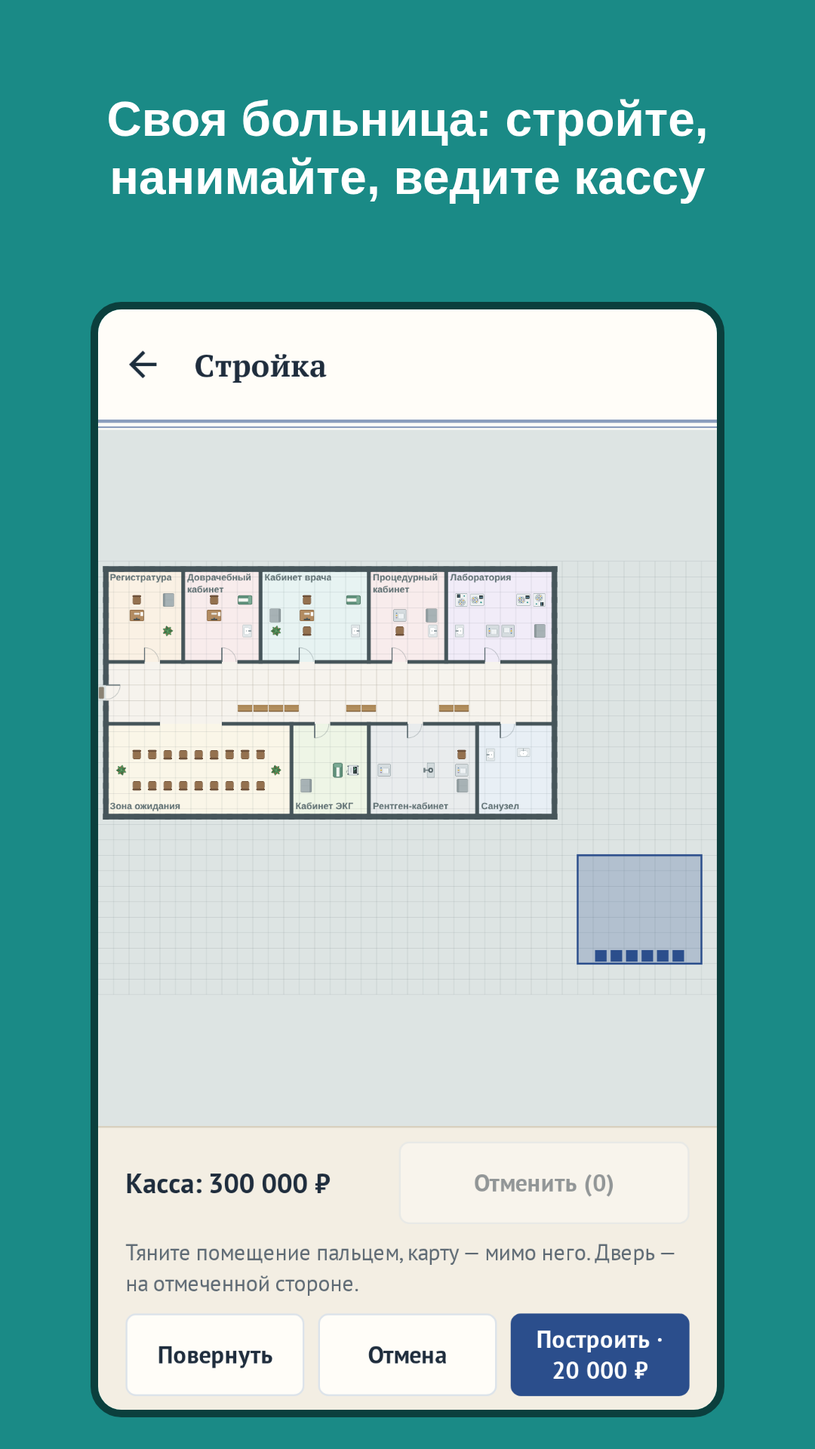
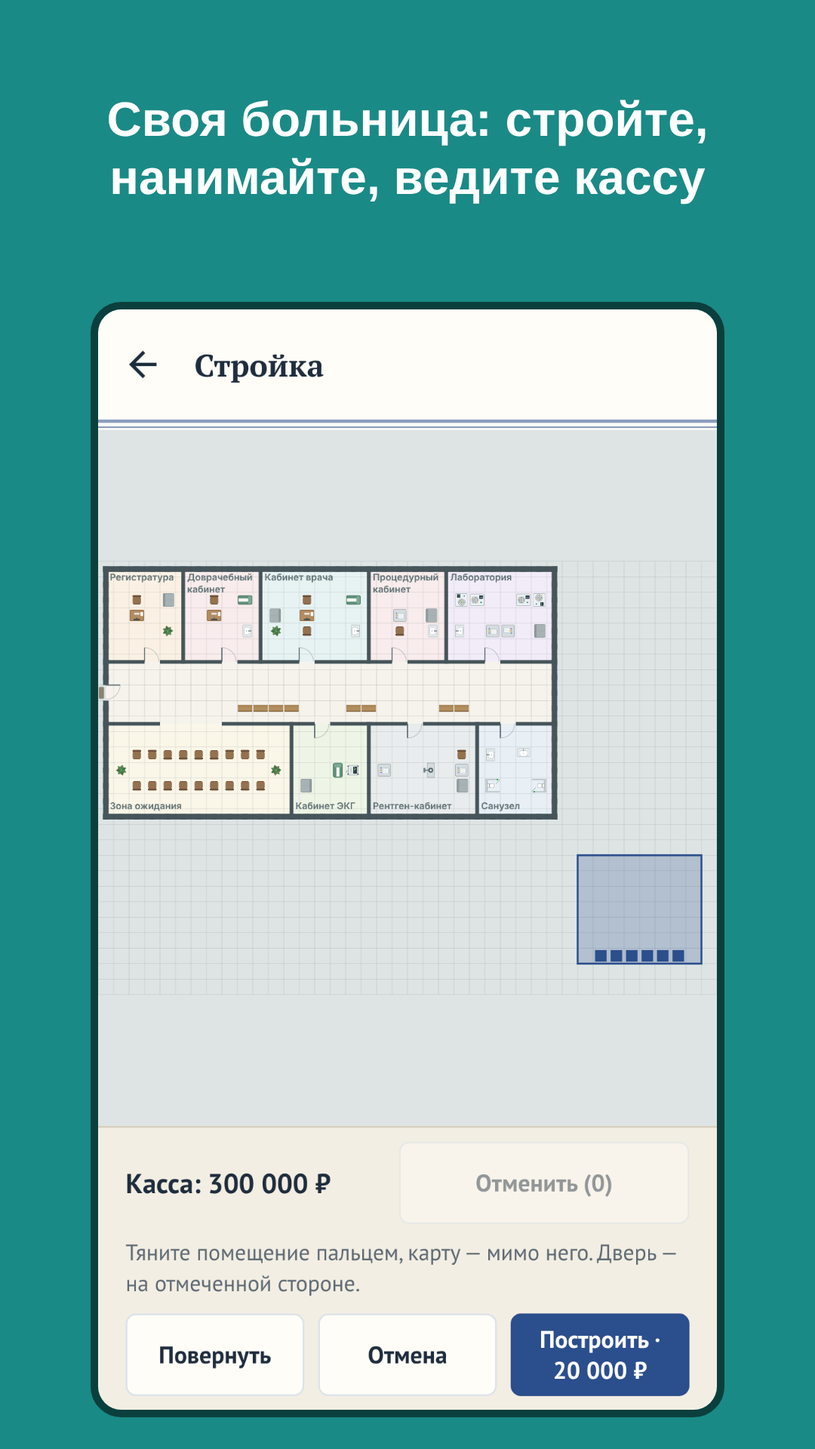
Магазин и сайт по 0.6.19: первые меры, «Где ждали», испытания и сценарии; план больницы переснят на двух снимках и обложке (часть 64)
К выпуску 1.0.0 материалы store/ должны соответствовать версии (устав, 04-process.md, «Выпуск», п. 3);
последний раз их обновляли по 0.6.9.

- Карточка RuStore (listing.ru.md): в полном описании — первые меры у скорой, «Где ждали», испытания на
  смену и сценарии на неделю. Чтобы уложиться в 4000 знаков (было 3941, стало 3991), короче перечни
  снимков, болезней сосудистого отделения, ран и правил решения — подробно они на сайте.
- Страница сайта (ru, en) и листок для прессы — то же, на сайте ещё монитор у койки и «код синий».
- Снимки и обложки пересняты на веб-сборке 0.6.19 и сверены с прежними попиксельно и глазами: другое
  содержание только у плана больницы (санузел на две кабинки, живой фон 0.6.12) — 01-emergency,
  08-build и cover-site-1920x640, их и заменил. На остальных отличается только сглаживание шрифтов
  другой версии Chromium — файлы прежние; иконки совпали до пикселя.
- store/README.md: ссылка на последний релиз вместо устаревшей «сейчас v0.6.7».

Проверки: store, site, links, status, version, guardrails — 30 из 30. Код игры и версия не менялись.

Claude-Session: https://claude.ai/code/session_01L25NsoAfKYPftpG2eaN9Vv

diff --git a/docs/journal/2026-10.md b/docs/journal/2026-10.md
@@ -103,6 +103,7 @@
 | 2026-10-25 | 0.6.17, «Главы короче» — часть 93, ответ владельца на вопрос 54 (Nefeste/anamnez#167): «делаем настройку при старте кампании - главы короче или как есть. Если выбрали настройку, то реализуем в ней идеи 2 (интересный больной) и 3 (главы короче). 4 и 5 пока отложим в список идей в roadmap, не делаем до отзывов.» ([`specs/2026-10-short-chapters.md`](../specs/2026-10-short-chapters.md)). Сделано: новая карьера — выбор «Главы»: «Как есть» или «Короче» (`meta.shortChapters`), в списке карьер — «главы короче». С «Короче» — пороги заданий из главы (`short: { count, text }` у задания): глава 1 — принять 25 пациентов вместо 40, глава 3 — ЭКГ и КТ в срок по трём больным вместо пяти (`missionsOf`); каждый день, кроме дня обучения главы, один-два пришедших сами или записанных к вам — тот же человек, но с болезнью больницы с весом записи не больше 100 (частые — 300 и 1000), жребий со сглаженными весами «Разнообразия», своя ветвь дня — остальные пришедшие те же бит в бит; интересного нанятые врачи не берут — он для вас. Подсказки, вывод и разбор — по частотам жизни. База 82. Замер интересного (3000 пришедших, все сезоны): в амбулатории частых у 62 % как в жизни, у 28 % со сглаженными весами без отбора, у интересного — ни у кого; болезней 42, в районной больнице — 75. Замер пути — карьера разумного врача на четырёх зёрнах (`district-sim --runs 0 --career-runs 4`, без настройки и с `--short`): до городской больницы — 26–43 смены вместо 43–79 (в среднем 36 вместо 62), вся карьера — 38–56 вместо 50–86; глава 3 — 11–29 вместо 26–63; глава 1 у разумного не короче — 3–4 смены, её держат лаборатория и три дня без лишнего антибиотика; глава 4 — в среднем те же 11 смен. Месяцы глав с `--short`, четыре зерна: глава 4 — основные задания на всех четырёх за 10–26 дней (без настройки на тех же зёрнах на одном «сепсис» за 30 дней не успел), прибыль — 3,54 млн ₽ против 3,59; глава 2 — задания за 9–11 дней, «операции в срок» — 89,1 % при пороге 90 % (без настройки на тех же зёрнах — 88,9 %, так и было); глава 3 — все критерии выполнены. По ходу работы: интересного сначала мог взять нанятый терапевт — тогда редкое увидел бы не игрок; теперь он для вас, как заданный пациент первой смены главы. Проверки: тесты кампании, глав 2–4, нанятых врачей, базы, выпущенных идентификаторов, золотых случаев, текстов, документов, сессии и сохранений — 212 из 212; новые — `short-chapters.test.ts`, 6 тестов; отпечаток золотых случаев пересоздан ради номера базы (сами случаи и вывод те же); сценарий в браузере — 430 из 430, ошибок в консоли нет (на сборке до правки «интересного нанятые врачи не берут»: в сценарии интересных нет — в первый день главы их не бывает); отдельный прогон на веб-сборке — 3 из 3, кадры — в спецификации; полный прогон тестов — CI. |
 | 2026-10-25 | 0.6.18, первые меры у скорой — часть 95, ответ владельца на вопрос 58 (Nefeste/anamnez#171): «Готов ждать, делаем вариант 2. При этом вариант 1 нужно будет записать в roadmap на будущие версии, когда будут более понятны отзывы и спецификации» ([`specs/2026-10-first-measures.md`](../specs/2026-10-first-measures.md); спецификация — до кода, отдельным PR). Сделано: записи базы `content/measures/` — кислород (B), инфузия (C), глюкоза (D), давящая повязка (C, новое назначение `tx.pressure_dressing` по приказу № 220н и 733_2): кто тяжёлый (признак правды, порог, роль назначения у основной болезни; сатурация и давление — и в листе передачи фельдшера), шаг 20–40 минут из ветви `worse:<пациент>:<мера>`, три ступени сдвигов монитора, на четвёртой — остановка кровообращения: код синий, бригада у койки и через 10 минут смерть, в «мягком режиме» — перевод в тяжёлом состоянии. Часы — с минуты, как положили в смотровую (`bayT`); ступени не хранятся — считаются по времени до минуты меры, поэтому журнал и сохранение те же; у больных из сохранений до 0.6.18 часов нет. Меру делает медсестра смотровой по одной, ваших минут она не стоит; данная мера держит (кислород, инфузия, глюкоза отменяют ступени, повязка — нет), в листе назначений отмечена, с временем, снять нельзя. Разбор — вовремя ли (до первой ступени), поздно — безопасность не выше B, с третьей ступени — C, умер в смотровой — D; строка разбора называет, почему мера была нужна. Умер до решения — приём закрыт без диагноза («Диагноз не поставлен»), смерть считается в летальности главы 4. На экране — лист передачи с монитором и «Первые меры» («Студенту» и «Практиканту» — что сделать сразу, по листу), карточка «В смотровой», на «Карте» — строка монитора и «Первые меры» листом; «хуже» — тревога монитора и автопауза; в итогах дня — «Первые меры вовремя», «Стало хуже», «Умерли в смотровой». Скорая привозит большую рану головы с кровопотерей (`carried`: 1,4–1,5 % привезённых), иначе повязку не нажать ни разу. Наставник в первую смену главы 2 говорит о первых мерах. Разумный врач в моделях даёт меры по известному (`measuresDue`: при одышке — когда послушал лёгкие, при Куссмауле — сразу). База 83. По ходу работы: тест итогов дня нашёл падение — у умершего до решения диагноза нет, а итоги дня искали его название; сценарий в браузере нашёл, что меры в шапке карты отнимают место у вкладок: на «Осмотреть» панель места закрывала полку «У постели», — меры переехали на «Карту», шапка — как в 0.6.17. Замечание владельца 25.10.2026 к кадру листа передачи — длинные промежутки между пульсом, давлением и дыханием: пороги того же измерения (пульс от 150, давление ниже 100) своего текста не имеют и рисовались пустыми строками; это было и до 0.6.18 — теперь пустых строк нет (тест в `ambulance.test.ts`), кадры листа пересняты. Замер `district-sim --runs 4 --career-runs 4`: умерших в смотровой нет ни в одной главе; вовремя — 61 из 65, 60 из 67 и 82 из 99 нужных мер в главах 2–4, хуже стало у 2, 5 и 14 больных; поздно — то, что видно только на приёме (рана — на осмотре, сахар — глюкометром, раствор при одышке — когда послушал лёгкие). Пороги глав выполнены, кроме «боксы окупаются своими больными» в главе 4 — 247 тыс. ₽ против 264 тыс. (0.6.17 на тех же зёрнах — 255 против 265, вопрос 27); карьера — все главы на каждом зерне за 50–86 смен, как в 0.6.17. Быстродействие (`--stall --runs 1 --days 3`): худшая команда — 161 мс, 99 % — 32 мс. Проверки: полный прогон тестов на коде до переноса мер на «Карту» — 2000 из 2000; на итоговом — тесты первых мер, кода синего, скорой, глав 2–4, карты, разбора по требованию, частей, нанятых врачей, сценариев, испытаний, кампании, сохранений, профиля, энциклопедии, базы, текстов, версии, магазина, STATUS и документов — 321 из 321; новые — `first-measures.test.ts`, 12 тестов, и один в `code-blue.test.ts`; отпечатки разбора по требованию и золотых случаев пересозданы: скорая привозит иначе; сценарий в браузере — 436 из 436, ошибок в консоли нет (до галочки у данной меры); кадры спецификации — на итоговой веб-сборке, ошибок в консоли нет. |
 | 2026-10-25 | 0.6.19, «Где ждали» — часть 96, ответ владельца на вопрос 60 (Nefeste/anamnez#175): «Да, вариант 2 делаем до 1.0 / 3 делаем после 1.0» ([`specs/2026-10-where-waited.md`](../specs/2026-10-where-waited.md)). Сделано: в итогах дня — «Где ждали» (`summary.waits`: по помещению — прошли, секунд ждали всего и дольше всех, секунд в работе), места по убыванию среднего, первое — узкое место, меньше 5 минут — строкой «Без очереди»; касание помещения на карте — «Сегодня: …», у лаборатории — пробы и «ждёт постановки». Ожидание пишется в минуту, когда обслуживание началось: регистратура и медсестра — по стойке (`at`), снимок и забор — событием `served`, врачи — при вызове, лаборатория — когда проба дошла, смотровая приёмного — когда положили на койку. Второй процедурный кабинет делит очередь (`collectRoom`: где забор начнётся раньше, с дорогой; его забор ещё идёт — туда же). Лаборант ставит партию — пробы, что дошли вместе, — 6 минут и по минуте на пробу (`economy.yaml`, `lab`), с поправкой навыка; постановка — часть времени анализа: без очереди результат прежний, ставит предыдущую — ждёт, результат позже на столько же; ждёте результата у себя — без очереди; лабораторий две — проба идёт туда, где лаборант освободится раньше. Прогноз результата знает очередь к лаборанту. Модели больниц печатают «Где ждали». По ходу работы: первый вариант считал снимок и забор в минуту назначения — «Сегодня» на карте показывало ещё не начатое; теперь — в минуту начала. Замер `district-sim --runs 4 --career-runs 4`: узкое место — врачи: ваш приём (в среднем 20–23 минуты, дольше всех — до 3,6 часа), в городской больнице — смотровая приёмного (машина ждёт койку в среднем 17 минут, дольше всех — 7 часов), эндоскопия и кабинеты нанятых врачей; лаборатория — без очереди (в городской 43 пробы в день — 3 часа работы лаборанта). Пороги глав выполнены, кроме прежнего «боксы окупаются» в главе 4 — 267 813 ₽ против 267 900 (0.6.18 — 246 913 против 263 500, вопрос 27); сроки — 100, 93,4 и 90,8 % (0.6.18 — 100, 93,4 и 91,3); умерших в смотровой нет; карьера — 50–86 смен. Быстродействие: худшая команда — 158 мс, 99 % — 33 мс. Проверки: полный прогон тестов на итоговом коде — 2013 из 2013; новые — `where-waited.test.ts`, 12 тестов; отпечатки разбора по требованию пересозданы: путь проб по больнице другой нарочно; сценарий в браузере — 438 из 438, ошибок в консоли нет; кадры спецификации — на итоговой веб-сборке, ошибок в консоли нет. По ходу проверок кадр нашёл, что строка «Сегодня» длиннее строки экрана и обрезалась многоточием, — теперь она в две строки, а «4 ч 2 мин» в итогах дня не разрывается между часами и минутами. В этом же выпуске — правка листа передачи 0.6.18 (пустые строки порогов), не успевшая в Nefeste/anamnez#186. |
+| 2026-10-30 | Материалы магазина и сайта — по 0.6.19 (часть 64, к выпуску 1.0.0; устав, `04-process.md`, «Выпуск», п. 3); версия игры прежняя. Полное описание карточки (`store/listing.ru.md`), страница сайта на двух языках и листок для прессы — о первых мерах у скорой с монитором у койки, «коде синем», «Где ждали», испытаниях на смену и сценариях на неделю. Чтобы карточка уложилась в 4000 знаков (было 3941, стало 3991), в ней короче перечни снимков, болезней сосудистого отделения, ран и правил решения; подробно они — на сайте. Снимки и обложки пересняты на 0.6.19 и сверены с прежними попиксельно и глазами: другое содержание — только у плана больницы (санузел на две кабинки и живой фон 0.6.12) на снимках «Скорая привезла» и «Своя больница» и на обложке сайта, их и заменил; на остальных экранах отличается только сглаживание шрифтов другой версии Chromium — файлы прежние. В `store/README.md` — ссылка на последний релиз вместо устаревшей «сейчас v0.6.7». |
 
 ## Дорожная карта: сделанные части «Пути к 1.0» и решённые вопросы 23 и 5
 

diff --git a/store/listing.ru.md b/store/listing.ru.md
@@ -49,21 +49,22 @@
 • Узнайте, что было на самом деле. Оценка по точности, обоснованности, бережливости и безопасности и разбор каждого приёма: как рассуждал бы опытный врач.
 • Отпущенным домой бывает хуже — тогда они возвращаются. Итоги дня расскажут, что с ними стало.
 • Кампания в четырёх главах: от амбулатории в посёлке до городской больницы с реанимацией. Первая смена — с наставником, дальше — письма и задания без сроков.
-• Своя больница: стройте кабинеты, лабораторию, рентген, УЗИ, КТ, МРТ и эндоскопию, приёмное отделение, палаты, реанимацию, боксы и операционную, нанимайте людей и ведите кассу. Нанятые врачи принимают сами, у специалистов — своя запись. Страховая оплачивает обоснованный диагноз и обследования по показаниям.
-• С приёмным отделением скорая привозит тяжёлых, срочность сверяют со шкалой NEWS2. Лежачих вы обходите каждое утро и выписываете, когда им лучше, а в операционной работает бригада — и чем дольше ждёт аппендицит или прободная язва, тем опаснее.
+• Своя больница: стройте кабинеты, лабораторию, рентген, УЗИ, КТ, МРТ и эндоскопию, приёмное отделение, палаты, реанимацию, боксы и операционную, нанимайте людей и ведите кассу. Нанятые врачи принимают сами, у специалистов — своя запись. Страховая оплачивает обоснованный диагноз и обследования по показаниям, а итоги дня покажут, где ждали дольше всего.
+• С приёмным отделением скорая привозит тяжёлых, срочность сверяют со шкалой NEWS2. Первые меры — от кислорода до давящей повязки — делает медсестра смотровой; без нужной меры тяжёлому хуже. Лежачих вы обходите каждое утро и выписываете, когда им лучше, а в операционной работает бригада — и чем дольше ждёт аппендицит или прободная язва, тем опаснее.
 
 ЧТО ВНУТРИ
-• Больше 110 болезней и травм. В поликлинике — терапия: от простуды до инфаркта, аритмий, кетоацидоза и анафилаксии. В больнице с приёмным — хирургия, от желчной колики до прободной язвы и острой ишемии ноги, и травмы: переломы, связки колена, раны, ожоги, травма груди, сотрясение. С кабинетом КТ — инсульт с тромболизисом в первые 4,5 часа, ТИА со шкалой ABCD2, кровоизлияния в мозг, невропатия лицевого нерва, судорожный приступ и эпилептический статус, расслоение аорты и ТЭЛА. С эндоскопией — кровотечение из язвы и вен пищевода, цирроз, атака колита; в инфекционном отделении — кишечные инфекции, клещевой энцефалит, ботулизм.
-• Раны и ожоги — как в приёмном: зашить сразу или отложить шов, площадь ожога посчитать ладонями; прививка от столбняка по записям, после укуса собаки — вакцина от бешенства.
-• Снимки рисует программа — у каждого пациента свои: рентген груди, живота и костей, УЗИ живота, вен и артерий ног, КТ головы и груди, МРТ головы и позвоночника, ЭГДС, ЭКГ в 12 отведениях.
-• Правила решения из клинических рекомендаций: нужен ли снимок голеностопа и колена, КТ после удара по голове, УЗИ вен при боли в ноге.
+• Больше 110 болезней и травм. В поликлинике — терапия: от простуды до инфаркта, аритмий, кетоацидоза и анафилаксии. В больнице с приёмным — хирургия, от желчной колики до прободной язвы и острой ишемии ноги, и травмы: переломы, связки колена, раны, ожоги, травма груди, сотрясение. С кабинетом КТ — инсульт с тромболизисом в первые 4,5 часа, ТИА, кровоизлияния в мозг, эпилептический статус, расслоение аорты и ТЭЛА. С эндоскопией — кровотечение из язвы и вен пищевода, цирроз, атака колита; в инфекционном отделении — кишечные инфекции, клещевой энцефалит, ботулизм.
+• Раны и ожоги — как в приёмном: шов сразу или отложенный, площадь ожога — ладонями, прививка от столбняка — по записям.
+• Снимки рисует программа — у каждого пациента свои: рентген, УЗИ, КТ, МРТ, ЭГДС и ЭКГ в 12 отведениях.
+• Правила решения из клинических рекомендаций: нужен ли снимок голеностопа, КТ после удара по голове, УЗИ вен.
 • Операции — от аппендэктомии до эндопротезирования тазобедренного сустава.
 • Признаки появляются не всегда, а анализы иногда ошибаются — как в жизни. Диагноз — это вероятность: соберите свой ряд гипотез — что за каждую, что против и чем подтвердить.
 • «Что это?» у каждого признака и обследования — простыми словами, подробнее — в энциклопедии игры.
 • Четыре уровня сложности — от «Практиканта» с подсказками до «Врача» без них.
 • Профиль врача: специальности и умения, архив приёмов, достижения — без сроков и серий.
-• Две темы — светлая и тёмная, или как в телефоне.
+• Светлая и тёмная темы, или как в телефоне.
 • «Смена» в выбранной больнице и «Случай дня» — один пациент в сутки, одинаковый у всех; любой из последних 30 дней можно сыграть когда угодно.
+• Испытания на смену — без расспроса, без анализов или с малым бюджетом — и сценарии на неделю: «Зимний грипп», «Рентген сломался».
 
 ЧТО ДАЛЬШЕ
 Игра в разработке. После выхода — обновления: новые болезни и отделения.

diff --git a/store/site/page.ru.md b/store/site/page.ru.md
@@ -79,10 +79,13 @@ facts:
 - **Своя больница.** Кабинеты, лаборатория, рентген, УЗИ, КТ, МРТ и эндоскопия, приёмное отделение,
   палаты, боксы и операционная, найм, касса. Нанятые врачи принимают сами, у специалистов — своя
   запись, а новых больных из выбранных вами групп болезней врачи оставляют вам. Страховая оплачивает
-  обоснованный диагноз и обследования по показаниям.
-- **Приёмное отделение.** Скорая привозит тяжёлых, срочность сверяют со шкалой NEWS2. Лежачих вы
-  обходите каждое утро и выписываете, когда им лучше; в операционной работает бригада — и чем дольше
-  ждёт аппендицит или прободная язва, тем опаснее.
+  обоснованный диагноз и обследования по показаниям. Итоги дня показывают, где ждали: у каждого места —
+  сколько прошли, сколько ждали и сколько оно было в работе; первым — узкое место.
+- **Приёмное отделение.** Скорая привозит тяжёлых, срочность сверяют со шкалой NEWS2. Тяжёлым в
+  смотровой — первые меры, от кислорода до давящей повязки: их делает медсестра смотровой, а монитор у
+  койки показывает, что стало хуже. Без нужной меры тяжёлому хуже каждые 20–40 минут, а при остановке
+  сердца — «код синий»: бригада бежит к койке. Лежачих вы обходите каждое утро и выписываете, когда им
+  лучше; в операционной работает бригада — и чем дольше ждёт аппендицит или прободная язва, тем опаснее.
 - **Четыре уровня сложности.** «Практикант» — подсказки «Похоже на», в расспросе, осмотре и назначениях
   сверху то, что относится к жалобе, разбор мягче; «Студент» — подсказки и анализы без ошибок;
   «Ординатор» — «Похоже на» до трёх болезней, уверенность словами, анализы иногда ошибаются; «Врач» —
@@ -146,6 +149,9 @@ facts:
   с разбором и достижения — без сроков и серий.
 - «Смена» в выбранной больнице и «Случай дня» — один пациент в сутки, одинаковый у всех; любой из
   последних 30 дней можно сыграть когда угодно.
+- Испытания — смена с условием: без расспроса, без анализов и снимков или не дороже 1 500 ₽ на
+  обследования одного пациента. Сценарии на неделю — пять смен с особым потоком и своей целью: «Зимний
+  грипп», «Закрыли соседнюю больницу», «Рентген сломался».
 - Две темы: светлая «Медкарта» — бумага и синие чернила — и тёмный «Монитор». Или как в телефоне.
 - Прогресс переносится на другой телефон файлом.
 

diff --git a/store/site/page.en.md b/store/site/page.en.md
@@ -83,11 +83,15 @@ in Russian.
   emergency department, wards, isolation boxes and an operating room, hiring, the cash desk. Doctors
   you hire see patients on their own, specialists have their own appointments, and new patients from
   the disease groups you pick are left for you. Insurance pays for a justified diagnosis and for
-  tests that were indicated.
+  tests that were indicated. The end-of-day summary shows where patients waited: for each place, how
+  many went through, how long they waited and how long it was busy, with the bottleneck first.
 - **Emergency department.** The ambulance brings in the seriously ill, and urgency is checked
-  against the NEWS2 score. You do a ward round every morning and discharge patients when they are
-  better; a surgical team works in the operating room — and the longer an appendicitis or a
-  perforated ulcer waits, the more dangerous it gets.
+  against the NEWS2 score. Seriously ill patients in the exam bay get first measures, from oxygen to
+  a pressure dressing: the bay nurse gives them, and the bedside monitor shows what got worse. Without
+  the measure they need, a seriously ill patient gets worse every 20–40 minutes, and a cardiac arrest
+  calls a code blue: the team runs to the bed. You do a ward round every morning and discharge
+  patients when they are better; a surgical team works in the operating room — and the longer an
+  appendicitis or a perforated ulcer waits, the more dangerous it gets.
 - **Four difficulty levels.** Trainee: “Looks like” hints, what relates to the complaint comes first
   in questions, examination and tests, and the review is gentler. Student: hints, and tests never
   err. Resident: up to three “Looks like” conditions with confidence in words, and tests sometimes err.
@@ -150,6 +154,9 @@ chronic illnesses that run in the background of the main one.
   with reviews, and achievements — no deadlines and no streaks.
 - A “Shift” at a hospital of your choice and a “Case of the day” — one patient a day, the same for
   everyone; any of the last 30 days can be played at any time.
+- Challenges — a shift with a condition: no history taking, no tests or scans, or no more than
+  1,500 ₽ of tests per patient. Week-long scenarios — five shifts with a special patient flow and a
+  goal of their own: “Winter flu”, “The hospital next door has closed”, “The X-ray is broken”.
 - Two themes: the light “Chart” — paper and blue ink — and the dark “Monitor”. Or follow the phone.
 - Progress moves to another phone as a file.
 

diff --git a/store/site/press.ru.md b/store/site/press.ru.md
@@ -43,7 +43,12 @@
   ошибаются, как в жизни.
 - Своя больница: кабинеты, лаборатория, рентген, УЗИ, КТ, МРТ и эндоскопия, приёмное отделение со
   скорой, палаты, боксы и операционная, найм — и терапевтов, и специалистов со своей записью — и
-  касса; страховая оплачивает обоснованный диагноз и обследования по показаниям.
+  касса; страховая оплачивает обоснованный диагноз и обследования по показаниям. Итоги дня показывают,
+  где пациенты ждали дольше всего.
+- В смотровой приёмного — первые меры, от кислорода до давящей повязки, и монитор у койки: без нужной
+  меры тяжёлому хуже, а при остановке сердца — «код синий».
+- Испытания на смену — без расспроса, без анализов и снимков или с малым бюджетом — и сценарии на
+  неделю с особым потоком и своей целью: «Зимний грипп», «Закрыли соседнюю больницу», «Рентген сломался».
 
 **Материалы.** Иконка — `../icon/icon-512.png`; обложка — `../graphics/cover-1920x1080.png`, без надписей —
 `../graphics/cover-site-1920x640.png`; графика 1024 × 500 — `../graphics/feature-1024x500.png`; снимки экрана —

diff --git a/docs/07-roadmap.md b/docs/07-roadmap.md
@@ -93,7 +93,9 @@
     15.10.2026) — **1.0.0**. Снимки и обложки пересняты по 0.5.13 — 15.10.2026, в 0.5.14; по 0.6.7 — 18.10.2026: на
     снимках приёма — «Результаты» и «Гипотезы»; доска гипотез — в карточке, на сайте и в листке для прессы. По 0.6.8 —
     22.10.2026: на снимке листа назначений — значки строк. По 0.6.9 — 24.10.2026: снимки приёмного, ЭКГ и ЭГДС и
-    обложка сайта — больные приходят к врачу после регистратуры и медсестры, на плане — очереди у дверей.
+    обложка сайта — больные приходят к врачу после регистратуры и медсестры, на плане — очереди у дверей. По 0.6.19 —
+    30.10.2026: в карточке, на сайте и в листке для прессы — первые меры, «Где ждали», испытания и сценарии; снимки
+    приёмного и стройки и обложка сайта — на плане санузел на две кабинки и живой фон.
 Части 87–96 (релизы 0.6.8–0.6.19) сделаны и перенесены в журнал дословно 28.10.2026 — в раздел
 «[Дорожная карта: сделанные части 87–96 (перенос 28.10.2026)](journal/2026-10.md#дорожная-карта-сделанные-части-8796-перенос-28102026)»;
 номера прежние, на них ссылаются спецификации.

diff --git a/store/README.md b/store/README.md
@@ -17,8 +17,8 @@
    разработки закрыт): до этой проверки PR выпуска 1.0.0 не готовится.
 2. **Новое приложение** в консоли: тип — игра; пакет — `games.gornitsa.anamnez` (`app.json`, ADR
    [0015](../docs/adr/0015-ci-build-signing.md)). Пакет вечный: с другим именем игру уже не обновить. Если консоль
-   просит APK уже при создании — `anamnez-N.apk` из последнего релиза `vX.Y.Z` на странице Releases (сейчас
-   [v0.6.7](https://github.com/Nefeste/anamnez/releases/tag/v0.6.7)): он подписан постоянным ключом, SHA-256
+   просит APK уже при создании — `anamnez-N.apk` из последнего релиза `vX.Y.Z`
+   ([Releases → Latest](https://github.com/Nefeste/anamnez/releases/latest)): он подписан постоянным ключом, SHA-256
    сертификата `873b866f…fd3db4` — консоль запомнит этот ключ для всех следующих версий. Сверить в консоли.
 3. **Карточка** — блоки из [`listing.ru.md`](listing.ru.md) как есть: название, краткое и полное описание, иконка
    `icon/icon-512.png`, восемь снимков `screenshots/phone/` по порядку, категория «Симуляторы», возраст 16+, теги,
